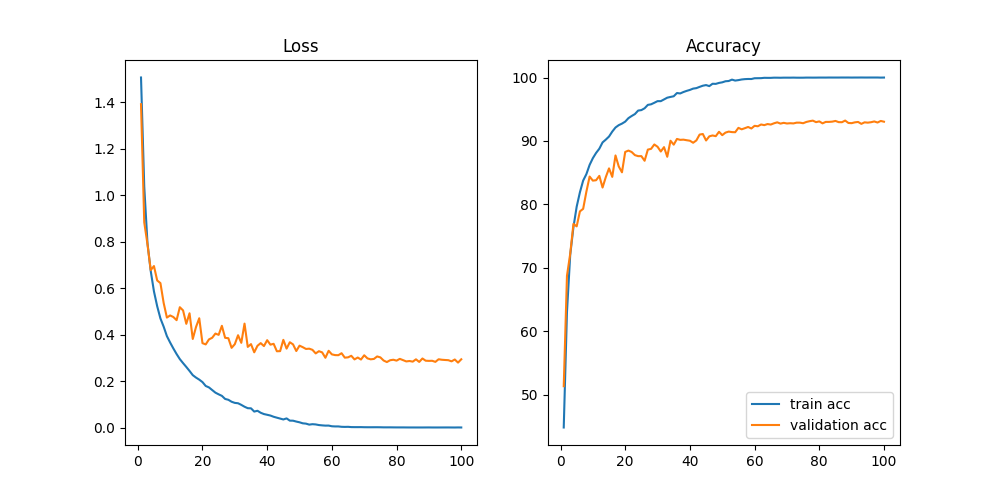
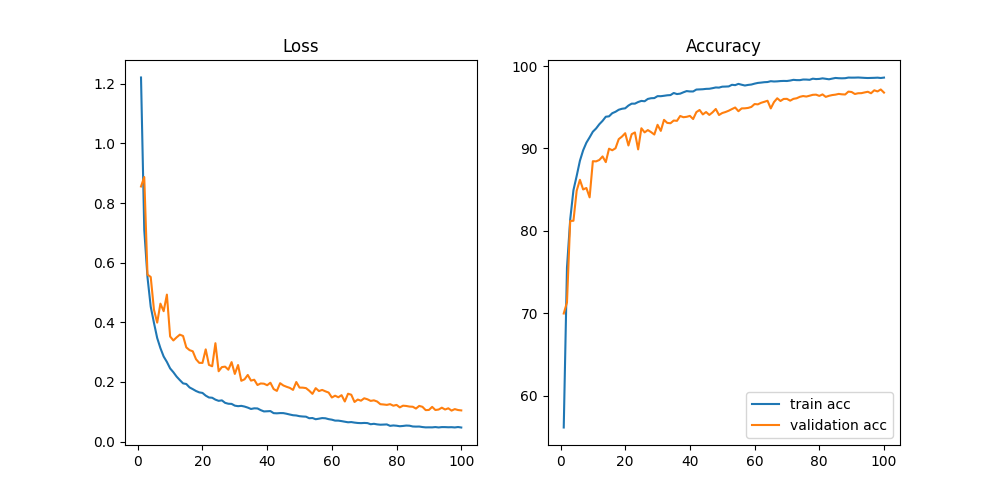
change dataset to customize dataset to use for mixup augmentation

diff --git a/train_teacher.py b/train_teacher.py
@@ -1,5 +1,6 @@
 import os
 import time
+import argparse
 import torch
 from utils import *
 from data_loader import DataLoader
@@ -7,6 +8,10 @@ from models.resnet import ResNet18
 from models.mobilenetv2 import MobileNetV2
 
 torch.manual_seed(0)
+
+parser = argparse.ArgumentParser(description='Implementation of training teacher network')
+parser.add_argument('--mixup', default=True, type=bool)
+args = parser.parse_args()
 
 device = torch.device("cuda:0" if torch.cuda.is_available() else "cpu")
 print(f'Using device: {device}, {torch.cuda.get_device_name(device)}')
@@ -38,11 +43,11 @@ batch_size = 128
 optimizer = torch.optim.SGD(model.parameters(), lr=lr, momentum=0.9, weight_decay=5e-4)
 scheduler = torch.optim.lr_scheduler.CosineAnnealingLR(optimizer, T_max=num_epochs)
 
-train_loader, val_loader, test_loader = DataLoader(batch_size=batch_size, train_val_split=0.8)
+train_loader, val_loader, test_loader = DataLoader(batch_size=batch_size, train_val_split=0.8, mixup=args.mixup)
 train_total_loss, train_total_acc, val_total_loss, val_total_acc = [], [], [], []
 
 best_acc = 0.0
-print('----- start training -----')
+print('\n----- start training -----')
 start = time.process_time()
 for epoch in range(num_epochs):
     train_loss = 0
@@ -53,8 +58,10 @@ for epoch in range(num_epochs):
         inputs, targets = inputs.to(device), targets.to(device)
         outputs = model(inputs)
 
-        _, predicted = torch.max(outputs.data, 1)
+        predicted = torch.argmax(outputs.data, 1)
         train_total += targets.size(0)
+
+        targets = torch.argmax(targets.data, 1)
         train_correct += (predicted == targets).sum().item()
 
         loss = loss_fn(outputs, targets)
@@ -67,16 +74,19 @@ for epoch in range(num_epochs):
 
     val_loss = 0
     val_total, val_correct = 0, 0
-    model.eval()
-    for inputs, targets in val_loader:
-        inputs, targets = inputs.to(device), targets.to(device)
-        outputs = model(inputs)
+    with torch.no_grad():
+        model.eval()
+        for inputs, targets in val_loader:
+            inputs, targets = inputs.to(device), targets.to(device)
+            outputs = model(inputs)
 
-        _, predicted = torch.max(outputs.data, 1)
-        val_total += targets.size(0)
-        val_correct += (predicted == targets).sum().item()
+            predicted = torch.argmax(outputs.data, 1)
+            val_total += targets.size(0)
 
-        val_loss += loss_fn(outputs, targets).item()
+            targets = torch.argmax(targets.data, 1)
+            val_correct += (predicted == targets).sum().item()
+
+            val_loss += loss_fn(outputs, targets).item()
     val_total_loss.append(val_loss / len(val_loader))
     val_total_acc.append(100 * val_correct / val_total)
 
@@ -103,6 +113,7 @@ print(f'----- Traing time: {time.process_time() - start} s -----')
 print('\nLoading best model...')
 checkpoint = torch.load('./checkpoint/teacher18_cifar10_cpkt')
 model.load_state_dict(checkpoint['model'])
+print('Best acc: {}%'.format(checkpoint['acc']))
 
 # test on testing data
 with torch.no_grad():
@@ -111,8 +122,10 @@ with torch.no_grad():
         data, labels = data.to(device), labels.to(device)
         outputs = model(data)
 
-        _, predicted = torch.max(outputs.data, 1)
+        predicted = torch.argmax(outputs.data, 1)
         total += labels.size(0)
+
+        labels = torch.argmax(labels.data, 1)
         correct += (predicted == labels).sum().item()
     print(f'[Test] Accuracy: {100 * correct / total}%')
 

diff --git a/train_student.py b/train_student.py
@@ -1,5 +1,6 @@
 import os
 import time
+import argparse
 import torch
 from data_loader import DataLoader
 from models.simplenet import SimpleNet
@@ -7,25 +8,29 @@ from utils import *
 
 torch.manual_seed(0)
 
+parser = argparse.ArgumentParser(description='Implementation of training student network')
+parser.add_argument('--mixup', default=True, type=bool)
+args = parser.parse_args()
+
 device = torch.device("cuda:0" if torch.cuda.is_available() else "cpu")
 print(f'Using device: {device}, {torch.cuda.get_device_name(device)}')
 print(torch.cuda.get_device_properties(device), '\n')
 
-train_loader, val_loader, test_loader = DataLoader(batch_size=128, train_val_split=0.8)
-
 model = SimpleNet().to(device)
-# print(model)
 
 num_epochs = 100
-lr = 0.01
-optimizer = torch.optim.SGD(model.parameters(), lr=lr, momentum=0.9, weight_decay=5e-4)
-# optimizer = torch.optim.Adam(model.parameters(), lr=lr, weight_decay=5e-4)
+lr = 0.001
+batch_size = 128
+# optimizer = torch.optim.SGD(model.parameters(), lr=lr, momentum=0.9, weight_decay=5e-4)
+optimizer = torch.optim.Adam(model.parameters(), lr=lr, weight_decay=5e-4)
 scheduler = torch.optim.lr_scheduler.CosineAnnealingLR(optimizer, T_max=num_epochs)
 
-best_acc = 0.0
-print('----- start training -----')
-start = time.process_time()
+train_loader, val_loader, test_loader = DataLoader(batch_size=batch_size, train_val_split=0.8, mixup=args.mixup)
 train_total_loss, train_total_acc, val_total_loss, val_total_acc = [], [], [], []
+
+best_acc = 0.0
+print('\n----- start training -----')
+start = time.process_time()
 for epoch in range(num_epochs):
     model.train()
     train_total = 0
@@ -56,7 +61,6 @@ for epoch in range(num_epochs):
         for data, target in val_loader:
             data, target = data.to(device), target.to(device)
             outputs = model(data)
-            val_loss += loss_fn(outputs, target).item()
 
             predicted = torch.argmax(outputs.data, 1)
             val_total += target.size(0)
@@ -64,8 +68,9 @@ for epoch in range(num_epochs):
             target = torch.argmax(target.data, 1)
             val_correct += (predicted == target).sum().item()
 
-        val_total_loss.append(val_loss / len(val_loader))
-        val_total_acc.append(100 * val_correct / val_total)
+            val_loss += loss_fn(outputs, target).item()
+    val_total_loss.append(val_loss / len(val_loader))
+    val_total_acc.append(100 * val_correct / val_total)
 
     scheduler.step()
     
@@ -85,21 +90,24 @@ for epoch in range(num_epochs):
         torch.save(state, './checkpoint/student_cpkt')
         best_acc = val_total_acc[-1]
         print('- New checkpoint -')
-
 print(f'Traing time: {time.process_time() - start} s')
 
 print('\nLoading best model...')
 checkpoint = torch.load('./checkpoint/student_cpkt')
 model.load_state_dict(checkpoint['model'])
+print('Best acc: {}%'.format(checkpoint['acc']))
 
+# test on testing data
 with torch.no_grad():
     total, correct = 0, 0
     for data, labels in test_loader:
         data, labels = data.to(device), labels.to(device)
         outputs = model(data)
 
-        _, predicted = torch.max(outputs.data, 1)
+        predicted = torch.argmax(outputs.data, 1)
         total += labels.size(0)
+
+        labels = torch.argmax(labels.data, 1)
         correct += (predicted == labels).sum().item()
     print(f'\n[Test] Accuracy: {100 * correct / total}%')
 

diff --git a/data_loader.py b/data_loader.py
@@ -24,27 +24,28 @@ def DataLoader(batch_size=128, train_val_split=0.8, mixup=True):
         torchvision.transforms.Normalize((0.485, 0.456, 0.406), (0.229, 0.224, 0.225)),
     ])
 
-    dataset = torchvision.datasets.CIFAR10(root='./data', download=False, train=True, transform=transform_train)
-    testset = torchvision.datasets.CIFAR10(root='./data', download=False, train=False, transform=transform_test)
+    # dataset = torchvision.datasets.CIFAR10(root='./data', download=False, train=True, transform=transform_train)
+    # testset = torchvision.datasets.CIFAR10(root='./data', download=False, train=False, transform=transform_test)
+
+    dataset = Mixup_Dataset('./data/cifar-10-batches-py/', train=True, mixup=False, transform=transform_train)
+    testset = Mixup_Dataset('./data/cifar-10-batches-py/', train=False, mixup=False, transform=transform_test)
 
     train_size = int(len(dataset) * train_val_split)
     val_size= len(dataset) - train_size
     trainset, valset = torch.utils.data.random_split(dataset, [train_size, val_size])
 
     if mixup:
+        mixup_dataset = Mixup_Dataset('./data/cifar-10-batches-py/', train=True, mixup=True, transform=transform_aug)
         print('[INFO] Create Mixup data augmentation...')
-        mixup_dataset = Mixup_Dataset('./data/cifar-10-batches-py/', train=True, transform=transform_aug)
     else:
         mixup_dataset = None
 
-    # trainset_aug = torch.utils.data.ConcatDataset([trainset, mixup_dataset])
+    trainset_aug = torch.utils.data.ConcatDataset([trainset, mixup_dataset])
 
-    trainset, valset = torch.utils.data.random_split(mixup_dataset, [train_size, val_size])
+    print('Original trainset: {} samples, Mixup augmentation: {} samples'.format(len(trainset), len(mixup_dataset)))
+    print('Total dataset: {} samples.'.format(len(trainset_aug)))
 
-    # print('Original trainset: {} samples.'.format(len(trainset)))
-    # print('Mixup augmentation: {} samples.'.format(len(mixup_dataset)))
-
-    train_loader = torch.utils.data.DataLoader(trainset, batch_size=batch_size, shuffle=True)
+    train_loader = torch.utils.data.DataLoader(trainset_aug, batch_size=batch_size, shuffle=True)
     val_loader = torch.utils.data.DataLoader(valset, batch_size=batch_size, shuffle=True)
     test_loader = torch.utils.data.DataLoader(testset, batch_size=batch_size, shuffle=True)
 

diff --git a/mixup_dataset.py b/mixup_dataset.py
@@ -1,13 +1,14 @@
 import pickle
 import numpy as np
 import torch
-import torchvision
-from torch.utils.data import Dataset, DataLoader
+from PIL import Image
+from torch.utils.data import Dataset
 
 class Mixup_Dataset(Dataset):
-    def __init__(self, data_dir, train, transform):
+    def __init__(self, data_dir, train, mixup, transform):
         self.data_dir = data_dir
         self.train = train
+        self.mixup = mixup
         self.transform = transform
         self.data = []
         self.targets = []
@@ -36,16 +37,18 @@ class Mixup_Dataset(Dataset):
         label = torch.zeros(10)
         label[self.targets[idx]] = 1.
 
+        image = Image.fromarray(self.data[idx])
         if self.transform:
-            image = self.transform(self.data[idx])
+            image = self.transform(image)
 
-        if idx % 5 == 0:
+        if self.mixup:
             mixup_idx = np.random.randint(0, len(self.data) - 1)
             mixup_label = torch.zeros(10)
             mixup_label[self.targets[mixup_idx]] = 1.
 
+            mixup_image = Image.fromarray(self.data[mixup_idx])
             if self.transform:
-                mixup_image = self.transform(self.data[mixup_idx])
+                mixup_image = self.transform(mixup_image)
 
             # select a random number from the given beta distribution
             # and mixup the images accordingly

diff --git a/README.md b/README.md
@@ -12,12 +12,13 @@ CIFAR10
 |  | 3-layer CNN (Student) | Resnet18 (Teacher) |
 |:-:|:-:|:-:|
 | Accuracy | 83.46% | 93.27% |
+| + Mixup  | 84.54% | 94.52% |
 
 FashionMNIST
 |  | 3-layer CNN (Student) | Resnet18 (Teacher) |
 |:-:|:-:|:-:|
 | Accuracy | 92.43% | 94.66% |
-
+| + Mixup  | - | - |
 
 ### Knowledge Distillation
 *T: temperature, R: alpha rate*
